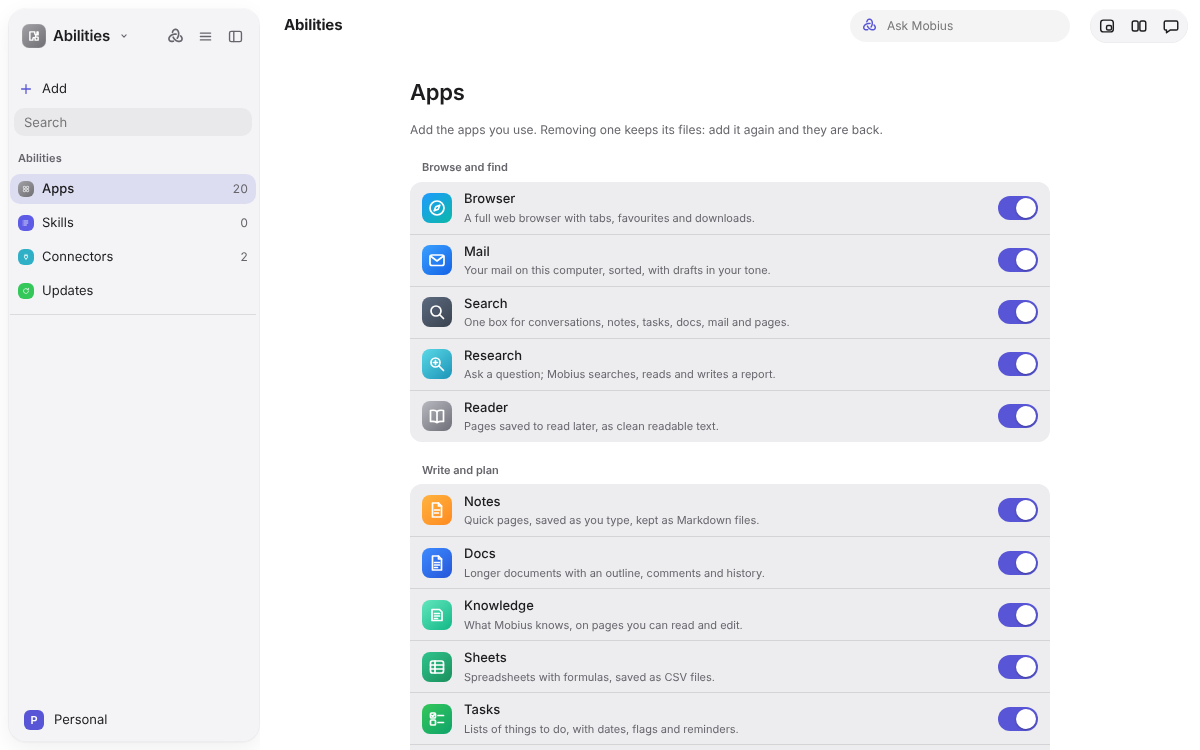
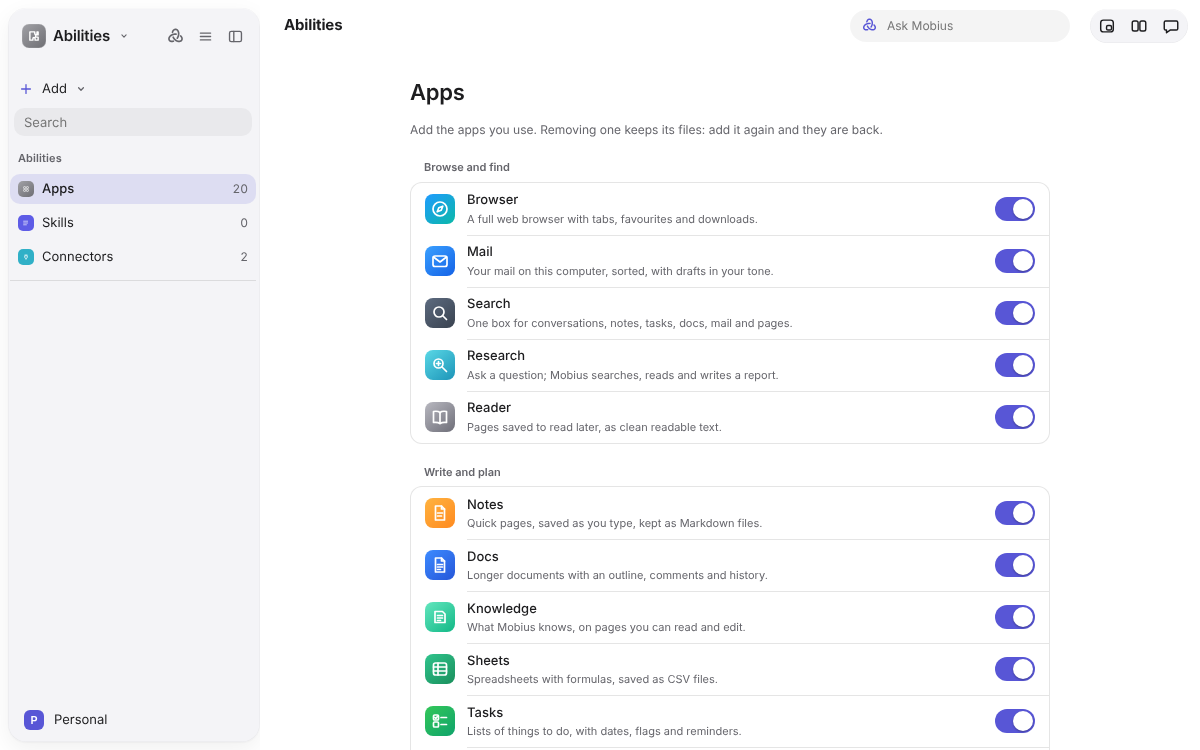
Abilities: Settings' cards, verb-first Add menu, Add a Connector sheet, Updates left to Settings
Design review on #52: lists use Settings' .settings-card, so the panes match; the
Mobius-for-other-apps switches trail their rows; place icons are Settings' 20px tiles;
Add's items lead with a verb and the row has a chevron; Add a Connector… opens a sheet
(example, Copy Example, Open Data Folder); a connector that could not start has Show
Details. Updates goes: Settings › About owns Mobius's own updates.

Claude-Session: https://claude.ai/code/session_01VRGwo9kYwx73RK6xsNx2dy

diff --git a/apps/desktop/src/Extensions.tsx b/apps/desktop/src/Extensions.tsx
@@ -1,26 +1,24 @@
 import { useCallback, useEffect, useRef, useState, useSyncExternalStore, type ReactNode } from 'react';
 import { createPortal } from 'react-dom';
-import type { AboutInfo, ConnectorStatus } from '@mobius/shared';
+import type { ConnectorStatus } from '@mobius/shared';
 import { InstallDialog, SkillsSidebar } from './Skills';
 import type { SkillsState } from './useSkills';
 import { OtherApps } from './settings/sections';
 import { APP_GROUPS, APPS, CORE_APPS, isInstalled, withApp, type AppId, type AppInfo } from './apps';
 import { APP_ICONS } from './Rail';
 import { usePreferences } from './usePreferences';
-import { useUpdates } from './useUpdates';
 import { ContextMenu } from './ContextMenu';
 import './abilities.css';
 
 /**
- * The places in Abilities: the apps you add, and what gives Mobius more to work with, in one app. Plugins come back as
- * a place once there are plugins to show; adding anything starts from the Add menu at the top of the sidebar.
+ * The places in Abilities: the apps you add, and what gives Mobius more to work with, in one app. Plugins, and updates
+ * to skills and connectors, come back as places once there are some (Mobius's own updates live in Settings); adding anything starts from the Add menu at the top of the sidebar.
  */
-export type ExtensionPlace = 'apps' | 'skills' | 'connectors' | 'updates';
+export type ExtensionPlace = 'apps' | 'skills' | 'connectors';
 export const EXTENSION_PLACES: readonly { id: ExtensionPlace; name: string; tint: string; icon: ReactNode }[] = [
   { id: 'apps', name: 'Apps', tint: 'var(--app-skills, #8e8e93)', icon: <><rect x="4" y="4" width="5" height="5" rx="1.4" /><rect x="11" y="4" width="5" height="5" rx="1.4" /><rect x="4" y="11" width="5" height="5" rx="1.4" /><rect x="11" y="11" width="5" height="5" rx="1.4" /></> },
   { id: 'skills', name: 'Skills', tint: '#5e5ce6', icon: <><path d="M6 5.5h8M6 10h8M6 14.5h5" /><path d="M3.5 5.5h.01M3.5 10h.01M3.5 14.5h.01" /></> },
   { id: 'connectors', name: 'Connectors', tint: '#30b0c7', icon: <><path d="M8 4v3M12 4v3M6.5 7h7v3a3.5 3.5 0 0 1-7 0z" /><path d="M10 13.5V16" /></> },
-  { id: 'updates', name: 'Updates', tint: '#34c759', icon: <><path d="M15.5 10a5.5 5.5 0 1 1-1.6-3.9" /><path d="M15.5 4v3h-3" /></> },
 ];
 
 /** One sentence on what each app is for, shown in the library under its name. */
@@ -46,6 +44,15 @@ const APP_PURPOSE: Partial<Record<AppId, string>> = {
   terminal: 'Run commands in a folder of your workspace.',
   canvas: 'A whiteboard of stickies, shapes, arrows and pen lines.',
 };
+
+/** Whether the Add a Connector sheet is open: Add in the sidebar and the Connectors page both open it. */
+let addingConnector = false;
+const sheetListeners = new Set<() => void>();
+const setAddingConnector = (next: boolean) => { addingConnector = next; sheetListeners.forEach((l) => l()); };
+function useAddingConnector(): [boolean, (next: boolean) => void] {
+  const value = useSyncExternalStore((l) => { sheetListeners.add(l); return () => sheetListeners.delete(l); }, () => addingConnector);
+  return [value, setAddingConnector];
+}
 
 /** What is typed in the sidebar's search: it narrows the apps, the skills and the connectors. */
 let query = '';
@@ -86,7 +93,6 @@ function Places({ place, onPlace, skills }: { place: ExtensionPlace; onPlace: (p
     apps: added,
     skills: skills.available ? skills.list.length : null,
     connectors: status ? status.running.length + status.failed.length : null,
-    updates: null,
   };
   return (
     <nav className="task-lists ext-places" aria-label="Abilities">
@@ -126,15 +132,16 @@ function AddMenu({ skills, onPlace, onNewSkill }: { skills: SkillsState; onPlace
       >
         <svg viewBox="0 0 20 20" aria-hidden="true"><path d="M10 4.5v11M4.5 10h11" /></svg>
         <span>Add</span>
+        <svg viewBox="0 0 20 20" aria-hidden="true" className="abl-chevron"><path d="m7 8.5 3 3 3-3" /></svg>
       </button>
       <input ref={picker} type="file" accept=".md,text/markdown,text/plain" hidden aria-label="Choose a SKILL.md" onChange={(e) => { const f = e.target.files?.[0]; e.target.value = ''; if (f) void f.text().then(setShared); }} />
       {shared !== null && <InstallDialog text={shared} skills={skills} onClose={() => { setShared(null); if (skills.open) onPlace('skills'); }} />}
       {menu && createPortal(
         <ContextMenu x={menu.x} y={menu.y} label="Add" onClose={() => setMenu(null)} items={[
-          { label: 'An app…', run: () => { setQuery(''); onPlace('apps'); } },
+          { label: 'Add an app…', run: () => { setQuery(''); onPlace('apps'); } },
           { label: 'New skill', run: onNewSkill, separated: true, disabled: !skills.available },
           { label: 'Install a skill…', run: () => picker.current?.click(), disabled: !skills.available },
-          { label: 'A connector…', run: () => onPlace('connectors'), separated: true },
+          { label: 'Add a connector…', run: () => { onPlace('connectors'); setAddingConnector(true); }, separated: true },
         ]} />,
         document.body,
       )}
@@ -176,7 +183,6 @@ export function ExtensionsPage({ place, onOpenApp }: { place: Exclude<ExtensionP
         <h1 className="abl-title">{name}</h1>
         {place === 'apps' && <AppLibrary onOpenApp={onOpenApp} />}
         {place === 'connectors' && <Connectors />}
-        {place === 'updates' && <Updates />}
       </div>
     </section>
   );
@@ -204,7 +210,7 @@ function AppLibrary({ onOpenApp }: { onOpenApp?: ((id: AppId) => void) | undefin
       {groups.map(({ group, members }) => (
         <section key={group} className="abl-group" aria-label={group}>
           <h2 className="abl-group-title">{group}</h2>
-          <ul role="list" className="abl-list">
+          <ul role="list" className="abl-list settings-card">
             {members.map((app) => {
               const added = isInstalled(app.id);
               const body = (
@@ -239,6 +245,8 @@ function Connectors() {
   const api = window.mobius.extensions;
   const { status } = useConnectors();
   const [q] = useAbilitiesQuery();
+  const [adding, setAdding] = useAddingConnector();
+  const [details, setDetails] = useState<string | null>(null);
   const none = status && status.running.length === 0 && status.failed.length === 0;
   const running = status?.running.filter((s) => matches(q, s)) ?? [];
   const failed = status?.failed.filter((f) => matches(q, f.server)) ?? [];
@@ -246,12 +254,15 @@ function Connectors() {
     <>
       <p className="abl-lede">Connectors give Mobius tools from other apps over MCP. Each one asks before it is used, as your approvals say.</p>
       <section className="abl-group" aria-label="Tools from other apps">
-        <h2 className="abl-group-title">Tools from other apps</h2>
-        {!api && <p className="abl-empty">Only the desktop app runs connectors.</p>}
+        <div className="abl-group-head">
+          <h2 className="abl-group-title">Tools from other apps</h2>
+          <button type="button" className="btn" onClick={() => setAdding(true)}>Add a Connector…</button>
+        </div>
+        {!api && <p className="abl-empty settings-card">Only the desktop app runs connectors.</p>}
         {status?.problem && <p className="field-error" role="alert">{status.problem}</p>}
-        {none && <p className="abl-empty">No connectors yet. MCP servers listed in mcp.json in the data folder start when Mobius opens.</p>}
+        {none && <p className="abl-empty settings-card">No connectors yet. Add one to give Mobius tools from another app.</p>}
         {(running.length > 0 || failed.length > 0) && (
-          <ul className="abl-list" role="list" aria-label="Connectors">
+          <ul className="abl-list settings-card" role="list" aria-label="Connectors">
             {running.map((s) => (
               <li key={s} className="abl-row" aria-label={s}>
                 <span className="abl-dot" data-state="on" aria-hidden="true" />
@@ -259,57 +270,65 @@ function Connectors() {
               </li>
             ))}
             {failed.map((f) => (
-              <li key={f.server} className="abl-row" aria-label={f.server}>
+              <li key={f.server} className="abl-row abl-row-wrap" aria-label={f.server}>
                 <span className="abl-dot" data-state="failed" aria-hidden="true" />
-                <span className="abl-text"><span className="abl-name">{f.server}</span><span className="abl-sub abl-error">Couldn’t start: {f.error}</span></span>
+                <span className="abl-text"><span className="abl-name">{f.server}</span><span className="abl-sub abl-error">Couldn’t start</span></span>
+                <button type="button" className="btn" aria-expanded={details === f.server} onClick={() => setDetails((d) => (d === f.server ? null : f.server))}>{details === f.server ? 'Hide Details' : 'Show Details'}</button>
+                {details === f.server && <p className="abl-detail">{f.error}. Fix its entry in mcp.json, then reopen Mobius to start it again.</p>}
               </li>
             ))}
           </ul>
         )}
-        {status && !none && running.length === 0 && failed.length === 0 && <p className="abl-empty">No connectors match “{q.trim()}”.</p>}
-        {api && (
-          <div className="abl-actions">
-            <button type="button" className="btn" onClick={() => void window.mobius.app.openDataFolder()}>Open Data Folder</button>
-            <span className="abl-note">Add a server to mcp.json there, then reopen Mobius.</span>
-          </div>
-        )}
+        {status && !none && running.length === 0 && failed.length === 0 && <p className="abl-empty settings-card">No connectors match “{q.trim()}”.</p>}
       </section>
       <section className="abl-group" aria-label="Mobius for other apps">
         <h2 className="abl-group-title">Mobius for other apps</h2>
-        <div className="abl-card"><OtherApps subpage="other-apps" highlight={null} /></div>
+        <div className="settings-card abl-card"><OtherApps subpage="other-apps" highlight={null} /></div>
       </section>
+      {adding && <AddConnectorSheet onClose={() => setAdding(false)} />}
     </>
   );
 }
 
-/** What is running, and Software Update, in the same grouped list as the rest of Abilities. */
-function Updates() {
-  const [about, setAbout] = useState<AboutInfo | null>(null);
-  const { info, check, restart } = useUpdates();
-  useEffect(() => { void window.mobius.app.about().then(setAbout).catch(() => undefined); }, []);
-  const busy = info.state === 'checking' || info.state === 'downloading';
-  return (
-    <>
-      <section className="abl-group" aria-label="Software Update">
-        <h2 className="abl-group-title">Software Update</h2>
-        <ul className="abl-list" role="list">
-          <li className="abl-row">
-            <span className="abl-text"><span className="abl-name">{info.current ? `Mobius ${info.current}` : 'Mobius'}</span><span className="abl-sub" role="status" data-update-state={info.state}>{info.status}</span></span>
-            {info.state === 'ready'
-              ? <button type="button" className="btn primary" onClick={() => void restart()}>Restart to Install</button>
-              : <button type="button" className="btn" disabled={info.state === 'off' || busy} onClick={() => void check()}>Check for Updates</button>}
-          </li>
-        </ul>
-      </section>
-      <section className="abl-group" aria-label="Installed">
-        <h2 className="abl-group-title">Installed</h2>
-        <table className="abl-list abl-table" aria-label="Versions">
-          <tbody>
-            <tr className="abl-row"><th scope="row" className="abl-name">Mobius</th><td>{about?.app ?? '…'}</td></tr>
-            <tr className="abl-row"><th scope="row" className="abl-name">Core</th><td>{about?.core ? `${about.core.version} (protocol ${about.core.protocol})` : 'Not running'}</td></tr>
-          </tbody>
-        </table>
-      </section>
-    </>
+const EXAMPLE = `{
+  "servers": {
+    "github": { "command": "npx", "args": ["-y", "@modelcontextprotocol/server-github"], "env": { "GITHUB_TOKEN": "…" } }
+  }
+}`;
+
+/**
+ * Add a Connector: what a connector is, the lines that add one, and where they go. Mobius starts the servers in
+ * mcp.json when it opens, so the last step is to reopen it.
+ */
+function AddConnectorSheet({ onClose }: { onClose: () => void }) {
+  const [copied, setCopied] = useState(false);
+  const copy = () => { void navigator.clipboard?.writeText(EXAMPLE).then(() => setCopied(true)).catch(() => undefined); };
+  useEffect(() => {
+    const key = (e: KeyboardEvent) => { if (e.key === 'Escape') onClose(); };
+    window.addEventListener('keydown', key);
+    return () => window.removeEventListener('keydown', key);
+  }, [onClose]);
+  return createPortal(
+    <div className="cal-modal-layer" onClick={(e) => { if (e.target === e.currentTarget) onClose(); }}>
+      <div className="camera-dialog" role="dialog" aria-modal="true" aria-label="Add a connector">
+        <h2>Add a Connector</h2>
+        <p className="camera-note">A connector is an MCP server: a small program that gives Mobius tools from another app, such as GitHub or Linear. Its maker’s page gives the command that runs it.</p>
+        <ol className="abl-steps">
+          <li>Open <b>mcp.json</b> in Mobius’s data folder (make it if it is not there).</li>
+          <li>Add the server under <code>servers</code>, with its command and any keys it needs:</li>
+        </ol>
+        <pre className="abl-code" aria-label="Example">{EXAMPLE}</pre>
+        <ol className="abl-steps" start={3}>
+          <li>Reopen Mobius. The connector appears in Connectors, and each of its tools asks before it is used.</li>
+        </ol>
+        <div className="camera-actions">
+          <button type="button" className="btn abl-link" onClick={() => void window.mobius.app.openDataFolder()}>Open Data Folder</button>
+          <span className="abl-spacer" />
+          <button type="button" className="btn" onClick={copy}>{copied ? 'Copied' : 'Copy Example'}</button>
+          <button type="button" className="btn primary" onClick={onClose}>Done</button>
+        </div>
+      </div>
+    </div>,
+    document.body,
   );
 }

diff --git a/apps/desktop/src/abilities.css b/apps/desktop/src/abilities.css
@@ -3,14 +3,18 @@
 .abl-page > .abl-column { display: flex; flex-direction: column; gap: var(--sp-5, 20px); max-width: 640px; }
 .abl-title { margin: 0; font-size: var(--fs-2xl); font-weight: var(--fw-semibold); letter-spacing: -0.01em; }
 .abl-lede { margin: -8px 0 0; color: var(--muted); font-size: var(--fs-sm); }
-.abl-empty { margin: 0; padding: 14px 12px; border-radius: 12px; background: var(--soft); color: var(--muted); font-size: var(--fs-sm); }
+.abl-empty { margin: 0; padding: 12px 14px; color: var(--muted); font-size: var(--fs-sm); }
 .abl-note { color: var(--muted); font-size: var(--fs-xs); }
 
 .abl-group { display: grid; gap: 6px; }
-.abl-group-title { margin: 0 0 0 12px; font-size: var(--fs-xs); font-weight: var(--fw-semibold); color: var(--muted); }
-.abl-list { list-style: none; margin: 0; padding: 0; border-radius: 12px; background: var(--soft); overflow: hidden; }
-.abl-row { display: flex; align-items: center; gap: 12px; min-height: 52px; padding: 6px 12px; }
-.abl-row + .abl-row { border-top: 0.5px solid var(--hairline, var(--line)); }
+.abl-group-head { display: flex; align-items: center; justify-content: space-between; gap: 12px; }
+.abl-group-title { margin: 0 0 0 14px; font-size: var(--fs-xs); font-weight: var(--fw-semibold); color: var(--muted); }
+/* The cards are Settings' own (.settings-card): white with a hairline, the same in both apps. */
+.abl-list { list-style: none; margin: 0; padding: 0; max-width: none; }
+.abl-row { position: relative; display: flex; align-items: center; gap: 12px; min-height: 52px; padding: 6px 14px; }
+.abl-row + .abl-row::before { content: ""; position: absolute; top: 0; left: 56px; right: 0; height: 0.5px; background: var(--hairline); }
+.abl-row-wrap { flex-wrap: wrap; }
+.abl-detail { flex: 1 1 100%; margin: 0 0 6px 24px; color: var(--muted); font-size: var(--fs-xs); }
 .abl-open { display: flex; align-items: center; gap: 12px; flex: 1; min-width: 0; margin: -6px 0; padding: 6px 0; text-align: left; color: inherit; border-radius: 8px; }
 button.abl-open:hover .abl-name { color: var(--accent); }
 button.abl-open:focus-visible { outline: 2px solid var(--accent); outline-offset: 2px; }
@@ -25,16 +29,17 @@ button.abl-open:focus-visible { outline: 2px solid var(--accent); outline-offset
 .abl-dot[data-state="on"] { background: #34c759; }
 .abl-dot[data-state="failed"] { background: var(--danger, #ff3b30); }
 .abl-actions { display: flex; align-items: center; gap: 10px; flex-wrap: wrap; margin-top: 4px; }
-.abl-card { padding: 4px 12px; border-radius: 12px; background: var(--soft); }
-.abl-card > :last-child { border-bottom: 0; }
-
-.abl-table { width: 100%; border-collapse: collapse; display: table; }
-.abl-table tr.abl-row { display: table-row; }
-.abl-table th, .abl-table td { padding: 12px; text-align: left; font-weight: var(--fw-medium); }
-.abl-table td { text-align: right; color: var(--muted); font-weight: 400; font-variant-numeric: tabular-nums; }
-.abl-table tr + tr > * { border-top: 0.5px solid var(--hairline, var(--line)); }
+.abl-card { max-width: none; }
 
 /* The sidebar: each place with its small tinted glyph, as System Settings does. */
 .abl-place { gap: 10px; }
-.abl-place-icon { flex: none; width: 22px; height: 22px; padding: 3.5px; border-radius: 6px; fill: none; color: #fff; stroke: currentColor; stroke-width: 2; stroke-linecap: round; stroke-linejoin: round; }
+.abl-place-icon { flex: none; width: 20px; height: 20px; padding: 4px; border-radius: 5px; fill: none; color: #fff; stroke: currentColor; stroke-width: 1.5; stroke-linecap: round; stroke-linejoin: round; }
 .skill-new-actions { display: flex; justify-content: flex-end; gap: 6px; }
+.side-new-row .abl-chevron { width: 12px; height: 12px; margin-left: -2px; stroke: var(--muted); }
+
+/* Add a Connector. */
+.abl-steps { margin: 0; padding-left: 20px; font-size: var(--fs-sm); display: grid; gap: 4px; }
+.abl-code { margin: 0; padding: 10px 12px; border-radius: 8px; background: var(--soft); font-family: var(--font-mono, ui-monospace, monospace); font-size: 11px; white-space: pre; overflow: auto; }
+.abl-spacer { flex: 1; }
+.btn.abl-link { border: 0; background: none; box-shadow: none; padding-left: 0; color: var(--accent); }
+.abl-row:has(> .abl-dot) + .abl-row::before { left: 38px; }

diff --git a/apps/desktop/e2e/skills.spec.ts b/apps/desktop/e2e/skills.spec.ts
@@ -103,7 +103,7 @@ test('a skill someone shared shows what it is for and what it can touch before i
   expect(fs.readFileSync(file('compare-stays'), 'utf8')).toContain('name: compare-stays\ndescription: When choosing where to stay');
 });
 
-test('Abilities is one of Mobius’s own apps: apps, skills, connectors and updates in one place', async () => {
+test('Abilities is one of Mobius’s own apps: apps, skills and connectors in one place', async () => {
   model = await startModel([]);
   mobius = await launch(fixture.origin + '/', { userData, env: { MOBIUS_AGENT_URL: model.url, MOBIUS_AGENT_MODEL: 'fake-model' } });
   await expect(shell().getByRole('textbox', { name: 'Message Mobius' })).toBeEnabled({ timeout: 15_000 });
@@ -111,7 +111,7 @@ test('Abilities is one of Mobius’s own apps: apps, skills, connectors and upda
   if ((await rail.getAttribute('data-face')) !== 'apps') await rail.locator('[data-app-switcher]').click();
   await rail.getByRole('region', { name: 'Mobius’s apps' }).getByRole('button', { name: 'Abilities', exact: true }).click();
   const places = shell().getByRole('navigation', { name: 'Abilities' });
-  await expect(places.getByRole('button')).toHaveText([/^Apps\d+$/, /^Skills\d*$/, /^Connectors\d*$/, 'Updates']);
+  await expect(places.getByRole('button')).toHaveText([/^Apps\d+$/, /^Skills\d*$/, /^Connectors\d*$/]);
   await expect(places.getByRole('button', { name: /^Apps/ })).toHaveAttribute('aria-current', 'page');
   // Each app says what it is for and has one switch. Removing one takes it out of the switcher and keeps its files;
   // adding it brings it back.
@@ -140,7 +140,10 @@ test('Abilities is one of Mobius’s own apps: apps, skills, connectors and upda
   const page = shell().getByRole('region', { name: 'Connectors' });
   await expect(page).toContainText('No connectors yet');
   await expect(page.getByRole('switch', { name: 'Let other apps use Mobius' })).toBeVisible();
-  await places.getByRole('button', { name: 'Updates' }).click();
-  await expect(shell().getByRole('region', { name: 'Updates' }).getByRole('table', { name: 'Versions' })).toBeVisible();
-  await expect(shell().getByRole('region', { name: 'Updates' }).getByRole('button', { name: 'Check for Updates' })).toBeVisible();
+  // Add a Connector explains mcp.json in a sheet.
+  await page.getByRole('button', { name: 'Add a Connector…' }).click();
+  const sheet = shell().getByRole('dialog', { name: 'Add a connector' });
+  await expect(sheet).toContainText('mcp.json');
+  await sheet.getByRole('button', { name: 'Done' }).click();
+  await expect(sheet).toBeHidden();
 });

diff --git a/docs/guide/abilities.md b/docs/guide/abilities.md
@@ -5,7 +5,7 @@ switcher, the launcher (Ctrl+K, then type "Abilities"), or **Settings › Abilit
 
 (Browser add-ons are a separate thing and are still called *extensions*.)
 
-The sidebar has four places, **Apps**, **Skills**, **Connectors** and **Updates**, each with a count. Above them,
+The sidebar has three places, **Apps**, **Skills** and **Connectors**, each with a count. Above them,
 **Add** is one menu for everything you can add (an app, a new skill, a skill from a file, a connector), and **Search**
 narrows the apps, skills and connectors as you type.
 
@@ -55,7 +55,8 @@ as your mode says. Servers start with a minimal environment: only the variables 
 Everything a server returns is treated as untrusted text.
 
 **Abilities › Connectors** shows each server Mobius started with a green dot, and each one that could not start with a
-red dot and the reason. **Open Data Folder** takes you to `mcp.json`; reopen Mobius after changing it.
+red dot; **Show Details** says why. **Add a Connector…** (on the page, or in **Add**) shows what to put in `mcp.json`,
+with **Copy Example** and **Open Data Folder**; reopen Mobius after changing it.
 
 ### Mobius for other apps
 
@@ -70,5 +71,5 @@ Plugins are not available yet. They will get their own place in Abilities when t
 
 ## Updates
 
-**Abilities › Updates** shows the versions of Mobius and its core, with **Check for Updates** (the same
-[Software Update](../getting-started/install.md#updates) as in Settings › About).
+Mobius's own updates are in **Settings › About › Software Update**. Updates to skills and connectors will get a place
+in Abilities when there are some.
